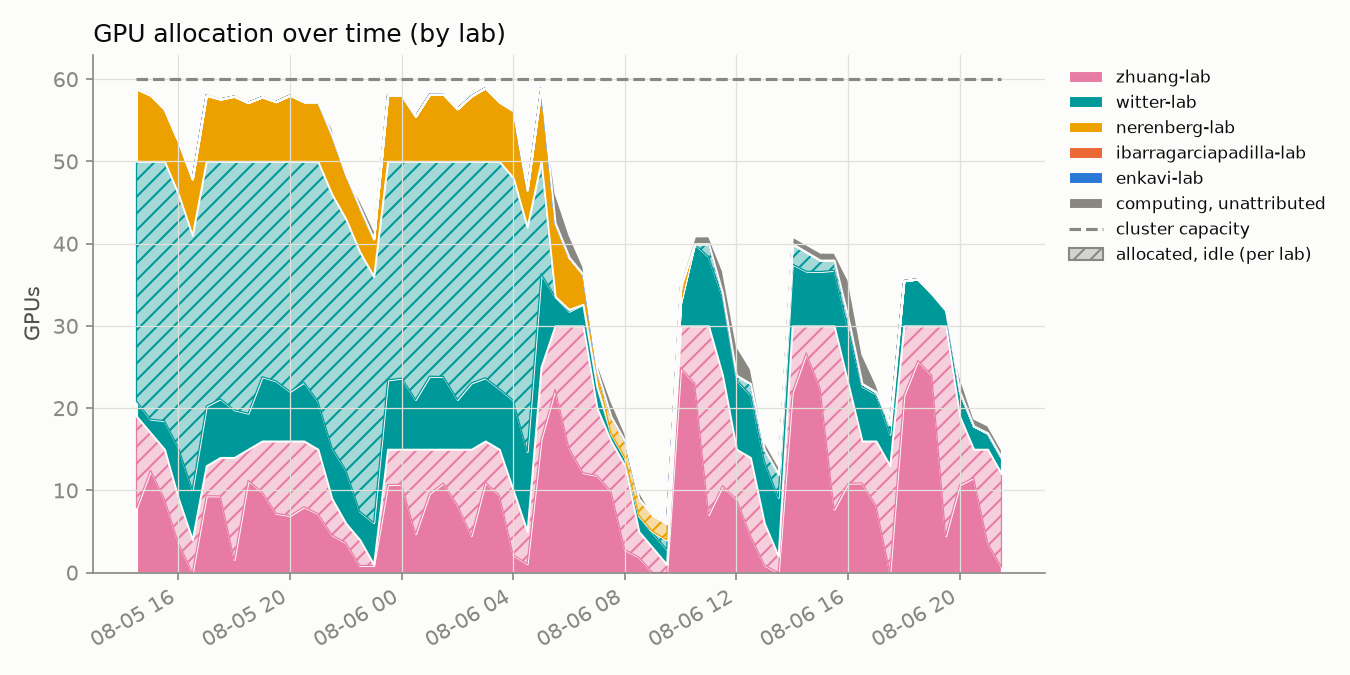
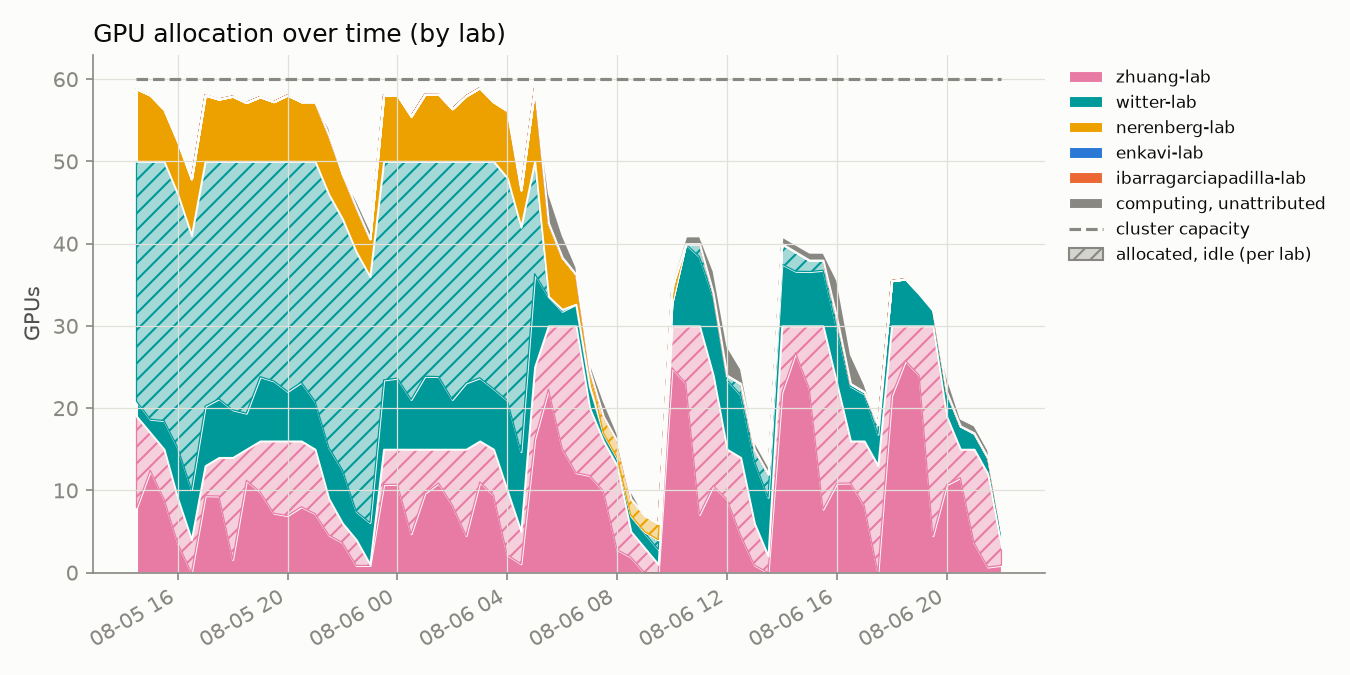
update 2026-08-06T22:00:01-07:00

diff --git a/README.md b/README.md
@@ -2,8 +2,8 @@
 
 Automated GPU/CPU/queue utilization tracker for `hopper.cluster`, updated every 30 minutes by cron. Usernames are anonymized to a stable per-account pseudonym; lab names are real.
 
-Last updated: 2026-08-06T21:30:13-07:00
-Samples: 63 queue snapshots, 63 GPU snapshots
+Last updated: 2026-08-06T22:00:08-07:00
+Samples: 64 queue snapshots, 64 GPU snapshots
 
 ## Resources
 
@@ -16,23 +16,23 @@ Samples: 63 queue snapshots, 63 GPU snapshots
 
 ## Headline
 
-- **62.5%** of the cluster's 60 GPUs allocated, averaged across all samples
+- **61.6%** of the cluster's 60 GPUs allocated, averaged across all samples
 - **42.8%** average `nvidia-smi` utilization *when* a GPU is allocated to a job
-- **83.8%** average cgroup CPU utilization *when* a CPU is allocated to a job
+- **84.0%** average cgroup CPU utilization *when* a CPU is allocated to a job
 
 ## Per lab / per user
 
 <table>
 <tr><th>Lab</th><th>User</th><th align='right'>GPU-hours allocated</th><th align='right'>CPU-hours allocated</th><th align='right'>GPU utilization</th></tr>
-<tr style='background-color:#fbebf1'><td>zhuang-lab</td><td>user-0db9ced0</td><td align='right'>531.5</td><td align='right'>531.5</td><td align='right'>49%</td></tr>
+<tr style='background-color:#fbebf1'><td>zhuang-lab</td><td>user-0db9ced0</td><td align='right'>533.0</td><td align='right'>533.0</td><td align='right'>49%</td></tr>
 <tr style='background-color:#d8efef'><td>witter-lab</td><td>user-d58f5a15</td><td align='right'>467.5</td><td align='right'>3740.0</td><td align='right'>9%</td></tr>
-<tr style='background-color:#d8efef'><td>witter-lab</td><td>user-554c620c</td><td align='right'>142.0</td><td align='right'>261.5</td><td align='right'>69%</td></tr>
+<tr style='background-color:#d8efef'><td>witter-lab</td><td>user-554c620c</td><td align='right'>143.0</td><td align='right'>262.5</td><td align='right'>68%</td></tr>
 <tr style='background-color:#fcf0d8'><td>nerenberg-lab</td><td>user-6bb5f332</td><td align='right'>40.0</td><td align='right'>200.0</td><td align='right'>71%</td></tr>
-<tr style='background-color:#fce8e0'><td>ibarragarciapadilla-lab</td><td>user-dad71a72</td><td align='right'>0.0</td><td align='right'>6.0</td><td align='right'>—</td></tr>
-<tr style='background-color:#fce8e0'><td>ibarragarciapadilla-lab</td><td>user-3cfc41a3</td><td align='right'>0.0</td><td align='right'>3075.0</td><td align='right'>—</td></tr>
-<tr style='background-color:#fce8e0'><td>ibarragarciapadilla-lab</td><td>user-eec7ffae</td><td align='right'>0.0</td><td align='right'>268.0</td><td align='right'>—</td></tr>
-<tr style='background-color:#dfeaf8'><td>enkavi-lab</td><td>user-c21bdaa4</td><td align='right'>0.0</td><td align='right'>38.0</td><td align='right'>—</td></tr>
 <tr style='background-color:#fcf0d8'><td>nerenberg-lab</td><td>user-b12dc074</td><td align='right'>0.0</td><td align='right'>16.0</td><td align='right'>—</td></tr>
+<tr style='background-color:#dfeaf8'><td>enkavi-lab</td><td>user-c21bdaa4</td><td align='right'>0.0</td><td align='right'>38.0</td><td align='right'>—</td></tr>
+<tr style='background-color:#fce8e0'><td>ibarragarciapadilla-lab</td><td>user-3cfc41a3</td><td align='right'>0.0</td><td align='right'>3097.5</td><td align='right'>—</td></tr>
+<tr style='background-color:#fce8e0'><td>ibarragarciapadilla-lab</td><td>user-eec7ffae</td><td align='right'>0.0</td><td align='right'>284.0</td><td align='right'>—</td></tr>
+<tr style='background-color:#fce8e0'><td>ibarragarciapadilla-lab</td><td>user-dad71a72</td><td align='right'>0.0</td><td align='right'>6.0</td><td align='right'>—</td></tr>
 </table>
 
 ## Usage over time
@@ -43,7 +43,7 @@ Samples: 63 queue snapshots, 63 GPU snapshots
 
 Solid = utilized by lab, hatched = allocated but idle, gray = usage not traceable to a lab, dashed line = cluster capacity.
 
-Attribution combines `nvidia-smi`'s process listing with Slurm's GPU-to-job binding record; the latter caught **1794** readings the former missed.
+Attribution combines `nvidia-smi`'s process listing with Slurm's GPU-to-job binding record; the latter caught **1799** readings the former missed.
 
 ## Queue
 
@@ -55,13 +55,13 @@ Attribution combines `nvidia-smi`'s process listing with Slurm's GPU-to-job bind
 
 ![CPU usage vs GPU usage, decayed](assets/cpu_gpu_usage.png)
 
-One point per user per snapshot (n=338), usage decayed on Slurm's ~7-day fairshare half-life.
+One point per user per snapshot (n=342), usage decayed on Slurm's ~7-day fairshare half-life.
 
 **GPU usage doesn't count toward priority on this cluster** (`TRESBillingWeights`/`PriorityWeightTRES` unset) - watch the **upper-left**: low CPU usage (high priority) with high GPU usage.
 
 ## Recommendations
 
-1. **Weight GPU usage in fairshare.** `TRESBillingWeights` and `PriorityWeightTRES` are both unset right now, so Slurm's fairshare score only sees CPU-seconds - a job holding 4 idle L40S GPUs costs nothing in priority as long as it isn't also holding CPUs. That's the exact failure mode the scatter above is built to catch (upper-left: low CPU usage, high GPU usage). Fix: `scontrol update partition=main TRESBillingWeights=CPU=1.0,GRES/gpu=<weight>` (or set `PriorityWeightTRES` cluster-wide), then `scontrol reconfigure` - a full `slurmctld` restart also works but drops in-flight priority state. A reasonable starting point for `<weight>` is the CPUs-per-GPU ratio on a GPU node (128 CPUs / 4 GPUs = 32), so one GPU costs as much fairshare as the CPU share it displaces; tune from there against next week's headline numbers (62.5% allocated, 42.8% utilized when allocated, as of this snapshot). The weight value itself is a policy call - loop in whoever owns cluster allocation policy before changing it.
+1. **Weight GPU usage in fairshare.** `TRESBillingWeights` and `PriorityWeightTRES` are both unset right now, so Slurm's fairshare score only sees CPU-seconds - a job holding 4 idle L40S GPUs costs nothing in priority as long as it isn't also holding CPUs. That's the exact failure mode the scatter above is built to catch (upper-left: low CPU usage, high GPU usage). Fix: `scontrol update partition=main TRESBillingWeights=CPU=1.0,GRES/gpu=<weight>` (or set `PriorityWeightTRES` cluster-wide), then `scontrol reconfigure` - a full `slurmctld` restart also works but drops in-flight priority state. A reasonable starting point for `<weight>` is the CPUs-per-GPU ratio on a GPU node (128 CPUs / 4 GPUs = 32), so one GPU costs as much fairshare as the CPU share it displaces; tune from there against next week's headline numbers (61.6% allocated, 42.8% utilized when allocated, as of this snapshot). The weight value itself is a policy call - loop in whoever owns cluster allocation policy before changing it.
 
 2. **Escalate on sustained low utilization** (see table and scatter above). Right now the clearest candidate is `user-d58f5a15` in `witter-lab`: 467.5 GPU-hours allocated at 9% average utilization, i.e. roughly 424 GPU-hours that sat idle instead of going to someone in the queue. Turning that into an automated escalation needs two decisions made up front: a utilization threshold (something like under 20% mean utilization over at least 50 allocated GPU-hours is a defensible starting bar - loose enough to skip short debugging runs, tight enough to catch parked allocations) and a grace period (how many consecutive low-utilization snapshots before it counts as "sustained" rather than a momentary lull between batches). Once those are set, the mechanism can be either soft (a bot that reads `data/gpu_samples.jsonl` and reminds the user/lab by email or Slack) or hard (a Slurm-side QOS penalty, e.g. `sacctmgr modify qos <qos> set Priority-=<n>`, applied after N consecutive offending snapshots). Neither exists yet - today the table and scatter above are a read-only signal, not an enforced policy.
 
